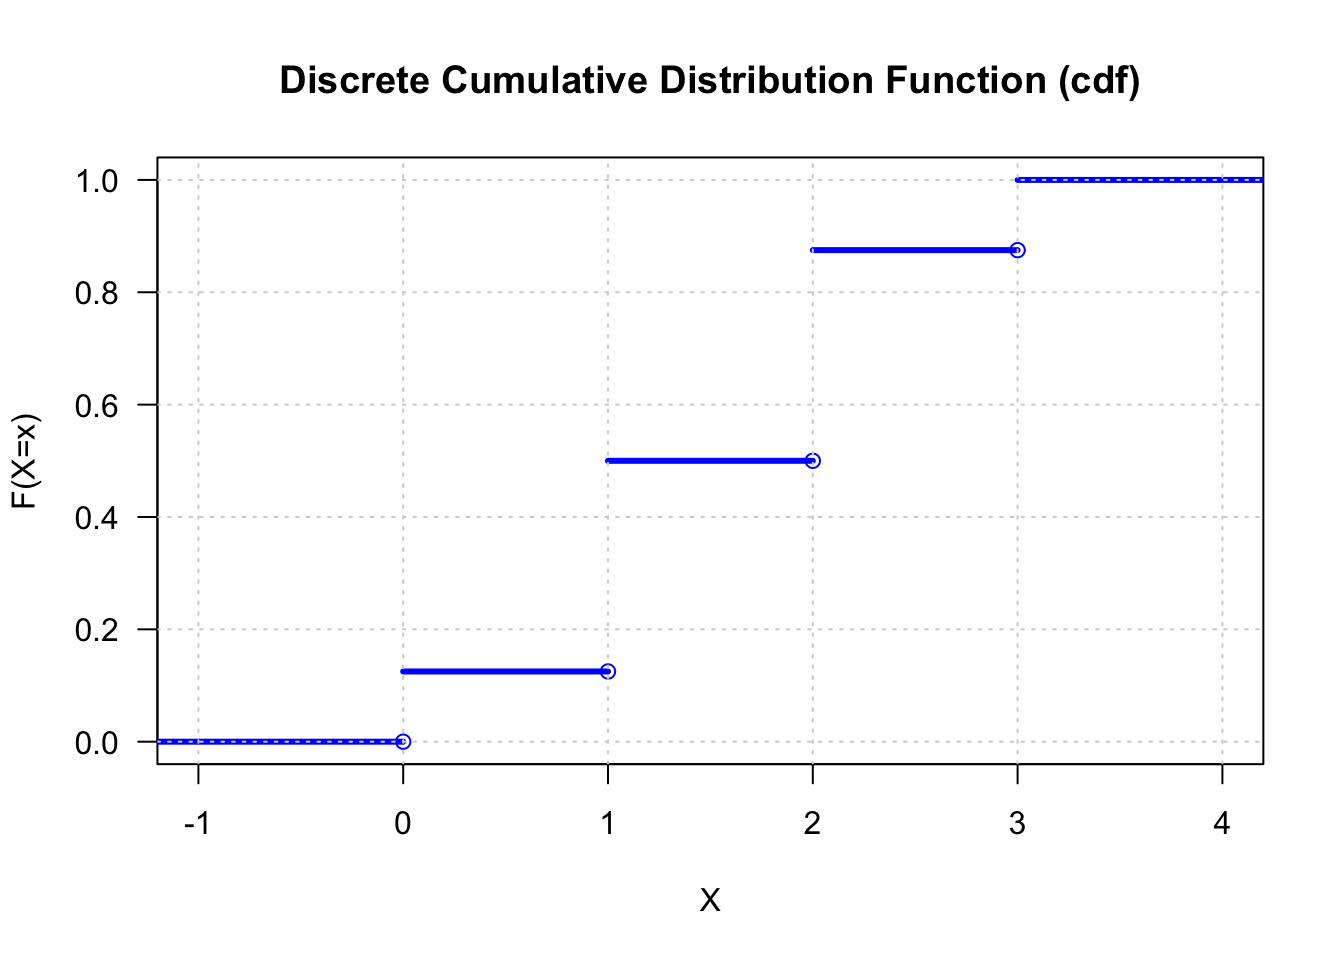
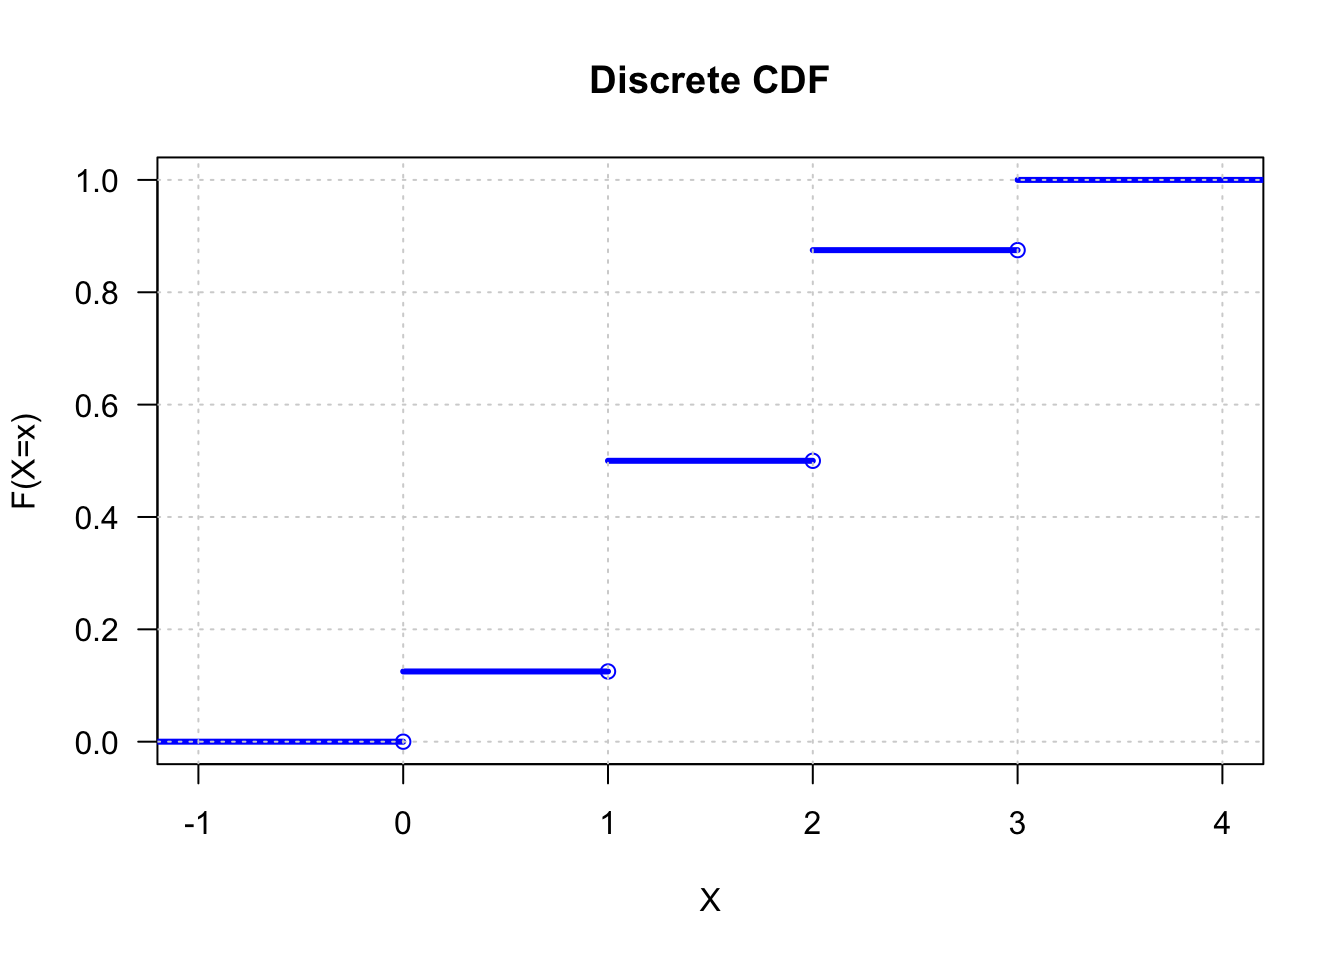
10-31a

Changed region(s): [[0.1875, 0.0625, 0.8438, 0.0938]]

diff --git a/prob2.html b/prob2.html
@@ -195,6 +195,7 @@ window.Quarto = {
   <li><a href="#prob-function-on-a-random-variable" id="toc-prob-function-on-a-random-variable" class="nav-link" data-scroll-target="#prob-function-on-a-random-variable">Prob Function on a Random Variable</a></li>
   <li><a href="#cumulative-distribution-functions" id="toc-cumulative-distribution-functions" class="nav-link" data-scroll-target="#cumulative-distribution-functions">Cumulative Distribution Functions</a></li>
   <li><a href="#r-code-for-discrete-cdf" id="toc-r-code-for-discrete-cdf" class="nav-link" data-scroll-target="#r-code-for-discrete-cdf">R-Code for discrete CDF</a></li>
+  <li><a href="#geometric-cdf" id="toc-geometric-cdf" class="nav-link" data-scroll-target="#geometric-cdf">Geometric CDF</a></li>
   </ul></li>
   </ul>
 </nav>
@@ -282,7 +283,7 @@ F(X) = P(X \le x), \text{ for all } x
 <div class="code-copy-outer-scaffold"><div class="sourceCode cell-code" id="cb1"><pre class="sourceCode r code-with-copy"><code class="sourceCode r"><span id="cb1-1"><a href="#cb1-1" aria-hidden="true" tabindex="-1"></a><span class="fu">library</span>(DiscreteDists)</span>
 <span id="cb1-2"><a href="#cb1-2" aria-hidden="true" tabindex="-1"></a>x <span class="ot">&lt;-</span> <span class="dv">0</span><span class="sc">:</span><span class="dv">3</span></span>
 <span id="cb1-3"><a href="#cb1-3" aria-hidden="true" tabindex="-1"></a>fx <span class="ot">&lt;-</span> <span class="fu">c</span>(<span class="fl">0.125</span>,<span class="fl">0.375</span>,<span class="fl">0.375</span>,<span class="fl">0.125</span>)</span>
-<span id="cb1-4"><a href="#cb1-4" aria-hidden="true" tabindex="-1"></a><span class="fu">plot_discrete_cdf</span>(x, fx, <span class="at">las=</span><span class="dv">1</span>, <span class="at">main=</span><span class="st">"Discrete Cumulative Distribution Function (cdf)"</span>)</span></code></pre></div><button title="Copy to Clipboard" class="code-copy-button"><i class="bi"></i></button></div>
+<span id="cb1-4"><a href="#cb1-4" aria-hidden="true" tabindex="-1"></a><span class="fu">plot_discrete_cdf</span>(x, fx, <span class="at">las=</span><span class="dv">1</span>, <span class="at">main=</span><span class="st">"Discrete CDF"</span>)</span></code></pre></div><button title="Copy to Clipboard" class="code-copy-button"><i class="bi"></i></button></div>
 <div class="cell-output-display">
 <div>
 <figure class="figure">
@@ -297,6 +298,9 @@ F(X) = P(X \le x), \text{ for all } x
 <li><span class="math inline">\(F(x)\)</span> is a nondecreasing function of <span class="math inline">\(x\)</span></li>
 <li><span class="math inline">\(F(x)\)</span> is right-continuous; that is, for every number <span class="math inline">\(x_0\)</span>, <span class="math inline">\(lim_{x|x_0} F(x) = F(x_0)\)</span></li>
 </ol>
+</section>
+<section id="geometric-cdf" class="level3">
+<h3 class="anchored" data-anchor-id="geometric-cdf">Geometric CDF</h3>
 <p><strong>Example 1.5.4 (Tossing for a head)</strong></p>
 <p>Let <span class="math inline">\(X\)</span> be a random variable for number of tosses required to get a head. If <span class="math inline">\(p\)</span> is the probability of a head on any given toss, then, for <span class="math inline">\(x = 1,2,\ldots\)</span>,</p>
 <p><span class="math display">\[
@@ -310,16 +314,18 @@ P(X \le x) = \sum_{i=1}^x P(X=i) = \sum_{i=1}^x (1-p)^{i-1} p
 <p><span class="math display">\[
 \sum_{k=1}^n t^{k-1} = \frac{1-t^n}{1-t}, \quad t \ne 1.
 \]</span></p>
-<p>which can be induced by induction. Thus, the <code>cdf</code> is given by:</p>
+<p>which can be induced by induction. Thus, the geometric <code>cdf</code> is given by:</p>
 <p><span class="math display">\[\begin{align*}
   F_X (x) &amp;= P(X \le x) \\
           &amp;= \frac{1-(1-p)^x}{1-(1-p)} . p \\
           &amp;= 1 - (1-p)^x, \quad x = 1,2,\ldots.
 \end{align*}\]</span></p>
-<p>Note:</p>
-<ol type="a">
-<li>If <span class="math inline">\(x \lt 0\)</span> i.e.&nbsp;negative number of heads then <span class="math inline">\(P(X=x)=0\)</span> and <span class="math inline">\(P(X \lt x) = 0\)</span>. Then, <span class="math inline">\(lim_{x \rightarrow -\infty} F_X(x) = 0\)</span>.</li>
-<li>If <span class="math inline">\(x \gt 0\)</span>, then <span class="math inline">\(lim_{x \rightarrow \infty} F_X (x) = lim_{x \rightarrow \infty} \{1 - (1-p)^x\} = 1\)</span></li>
+<p><strong>Proof that <span class="math inline">\(F_X(x)\)</span> is a CDF:</strong></p>
+<p>We verify CDF using Theorem 1.5.3. above. Noting that for <span class="math inline">\(0 \lt p \lt 1\)</span>,</p>
+<p>a1. If <span class="math inline">\(x \lt 0\)</span> i.e.&nbsp;negative number of heads then <span class="math inline">\(P(X=x)=0\)</span> and <span class="math inline">\(P(X \lt x) = 0\)</span>. Then, <span class="math inline">\(lim_{x \rightarrow -\infty} F_X(x) = 0\)</span>.</p>
+<p>a2. If <span class="math inline">\(x \gt 0\)</span>, then <span class="math inline">\(lim_{x \rightarrow \infty} F_X (x) = lim_{x \rightarrow \infty} \{1 - (1-p)^x\} = 1\)</span> since <span class="math inline">\((1-p)^x \rightarrow 0\)</span> when <span class="math inline">\(x \rightarrow \infty\)</span></p>
+<ol start="2" type="a">
+<li></li>
 </ol>
 
 
